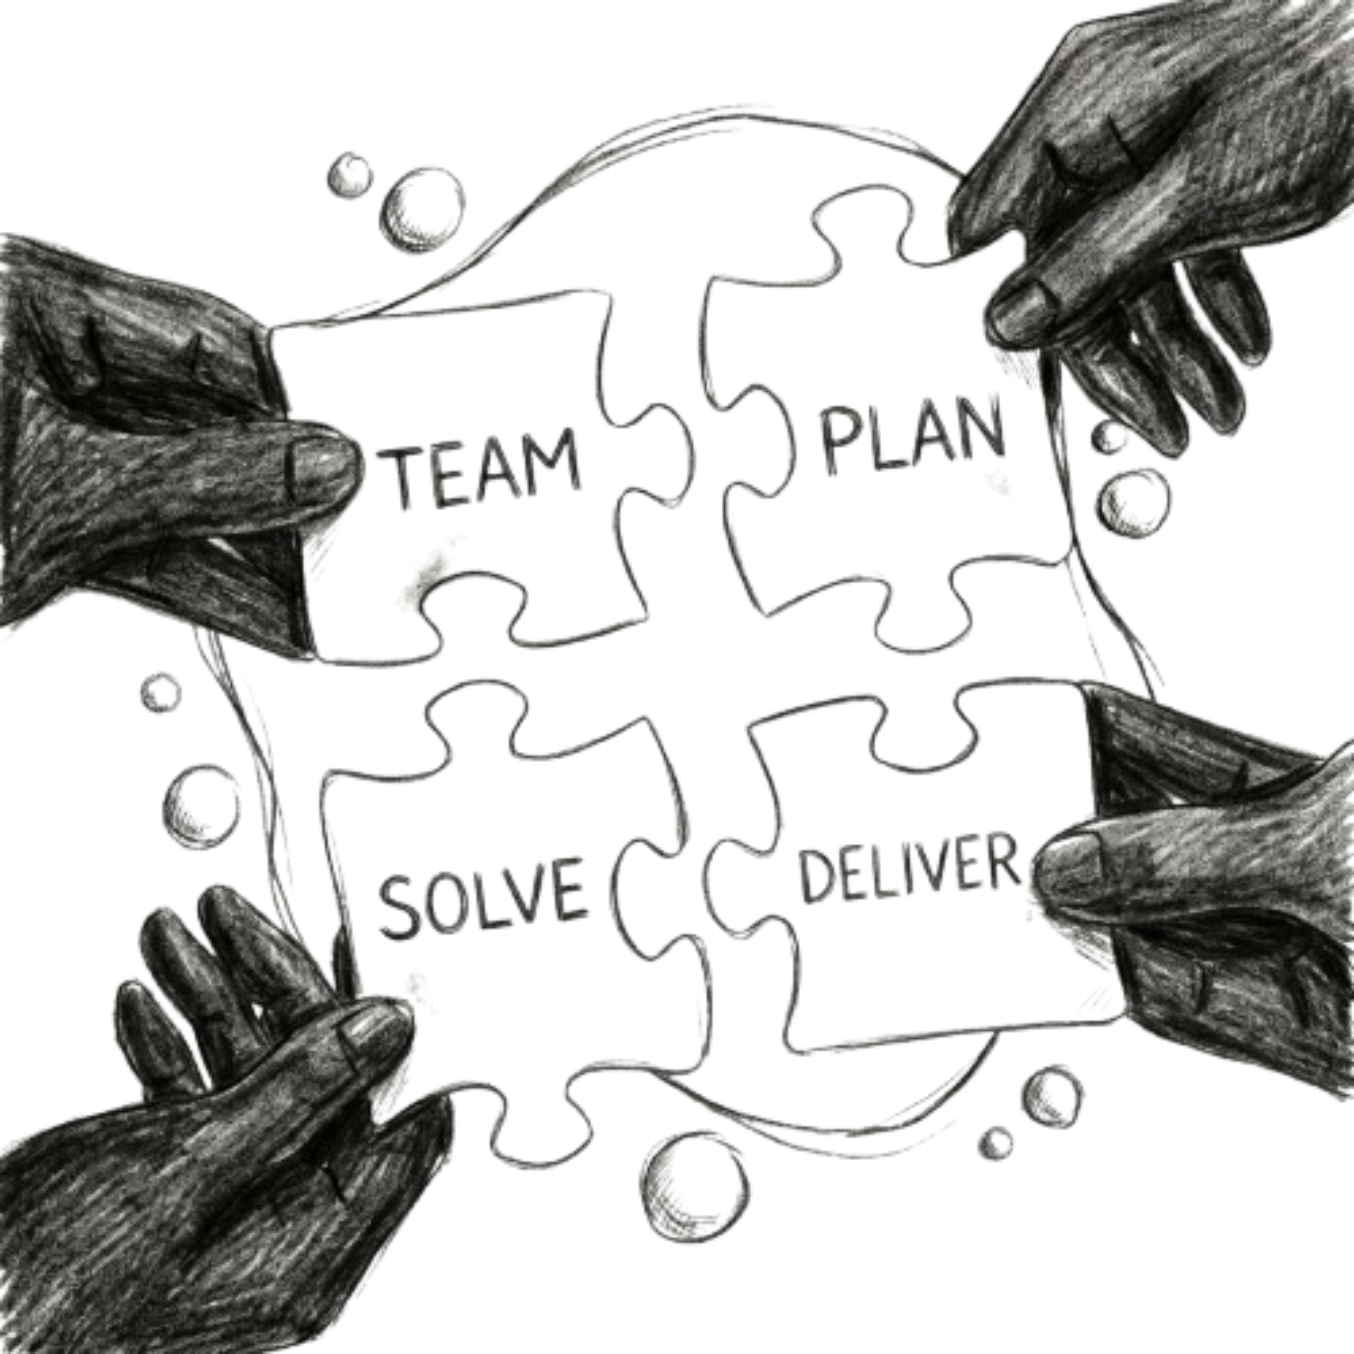
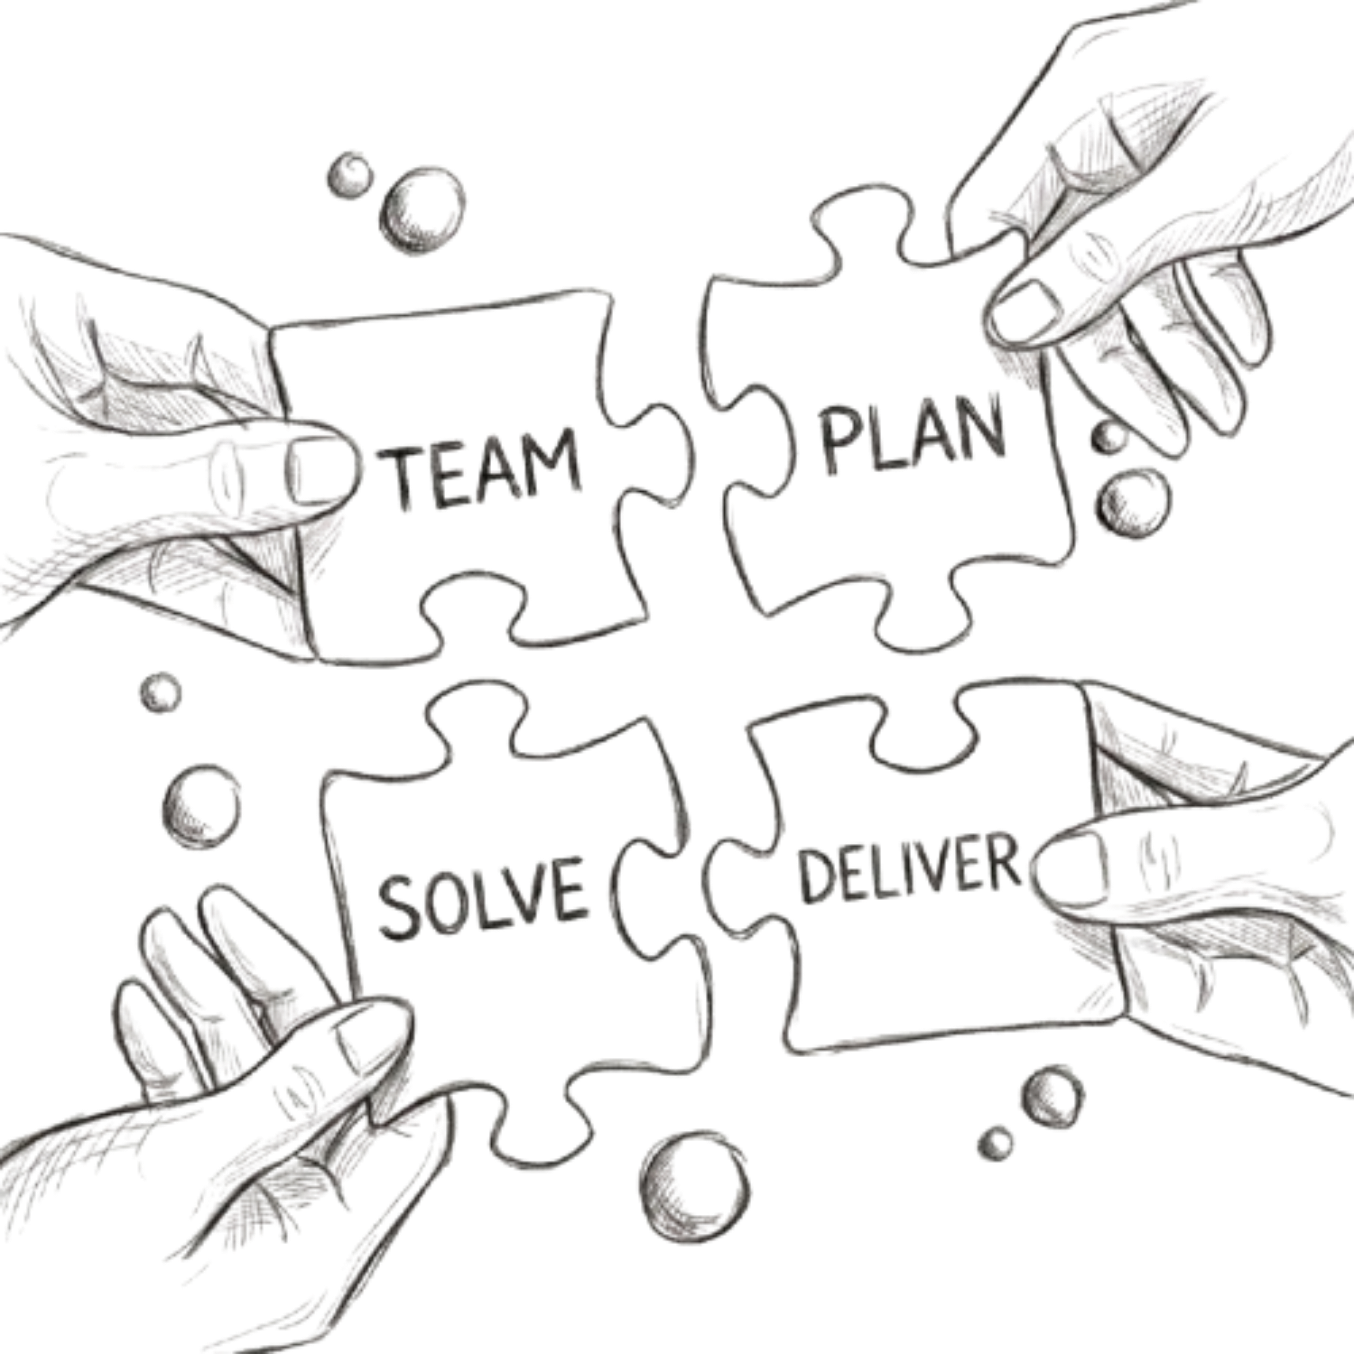
feat: update changelog with new Data Connectors feature and adjust UI styles in Hero section

diff --git a/src/app/platform/data/changelog.ts b/src/app/platform/data/changelog.ts
@@ -58,6 +58,22 @@ export const changelogEntries: ChangelogEntry[] = [
     },
   },
   {
+    version: "Version 1.2.1",
+    date: "23 September 2025",
+    title: "Data Connectors",
+    description:
+      "Connect GiKA directly to the systems you already use, so answers are always grounded in your live data.",
+    items: [
+      "Attach databases directly for real-time, queryable access",
+      "Connect Gmail to bring email context into your knowledge graph",
+      "Connect Google Drive to index documents, sheets, and slides automatically",
+      "Sync files and folders as they're added or updated, with no manual re-uploads",
+      "Support for 50+ new data source connectors",
+      "Enterprise-grade security and access controls on every connection",
+    ],
+    image: "/Features/Data.png",
+  },
+  {
     version: "Version 1.3.0",
     date: "15 November 2025",
     title: "Dashboard Generation",
@@ -75,21 +91,5 @@ export const changelogEntries: ChangelogEntry[] = [
       url: "https://gika.ai/platform",
       text: "Explore the dashboard",
     },
-  },
-  {
-    version: "Version 1.2.1",
-    date: "23 September 2025",
-    title: "Data Connectors",
-    description:
-      "Connect GiKA directly to the systems you already use, so answers are always grounded in your live data.",
-    items: [
-      "Attach databases directly for real-time, queryable access",
-      "Connect Gmail to bring email context into your knowledge graph",
-      "Connect Google Drive to index documents, sheets, and slides automatically",
-      "Sync files and folders as they're added or updated, with no manual re-uploads",
-      "Support for 50+ new data source connectors",
-      "Enterprise-grade security and access controls on every connection",
-    ],
-    image: "/Features/Data.png",
   },
 ];

diff --git a/src/sections/hero.tsx b/src/sections/hero.tsx
@@ -31,9 +31,10 @@ export default function Hero() {
       <section className="flex flex-col gap-4 lg:gap-12 items-center relative">
         {/* Hero Content */}
         <div className="flex flex-col text-center items-center gap-4">
-          <h2 className=" text-[130px] pt-12 font-bold tracking-tighter uppercase leading-tight">
+          <h2 className=" text-[120px] pt-12 font-bold  uppercase leading-tight">
             {settings.headlinePrefix}
-            <span className="bg-gradient-to-br from-black via-[#9868a8] to-[#c9a8d4] bg-clip-text text-transparent">
+            <span className="bg-gradient-to-br from-black via-[#9868a8] to-[#c9a8d4] bg-clip-text text-transparent ">
+              {" "}
               {settings.headlineHighlight}
             </span>
             {settings.headlineMiddle}

diff --git a/src/components/ui/changelog-1.tsx b/src/components/ui/changelog-1.tsx
@@ -124,14 +124,14 @@ export const Changelog1 = ({ entries = defaultEntries }: Changelog1Props) => {
         <div className="mx-auto max-w-6xl md:flex md:gap-16">
           {currentImage && (
             <div className="hidden md:block md:w-1/2">
-              <div className="sticky top-32 aspect-[4/3] overflow-hidden rounded-lg">
+              <div className="sticky top-32 aspect-[3/3] overflow-hidden rounded-lg">
                 {imagedEntries.map(({ entry, index }) => (
                   <Image
                     key={index}
                     src={entry.image!}
                     alt={`${entry.version} visual`}
                     fill
-                    className="object-cover transition-opacity duration-500 ease-in-out"
+                    className="object-contain transition-opacity duration-500 ease-out-in"
                     style={{
                       opacity: index === currentImage.index ? 1 : 0,
                     }}